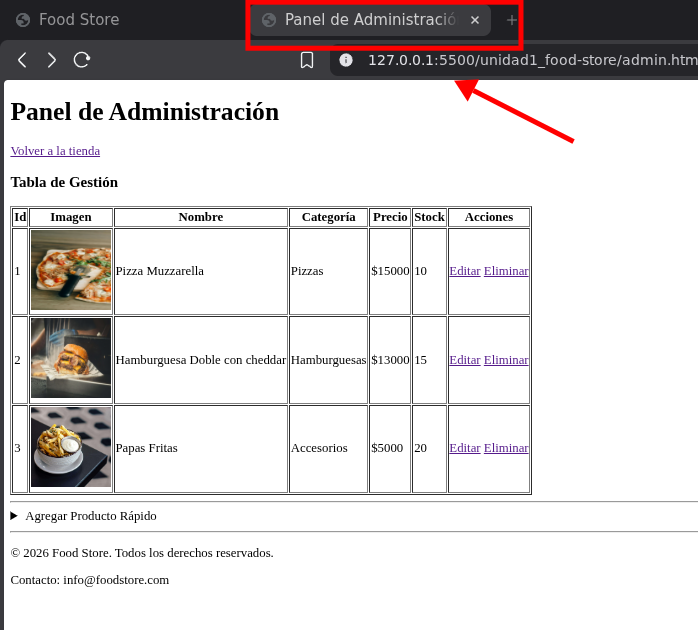
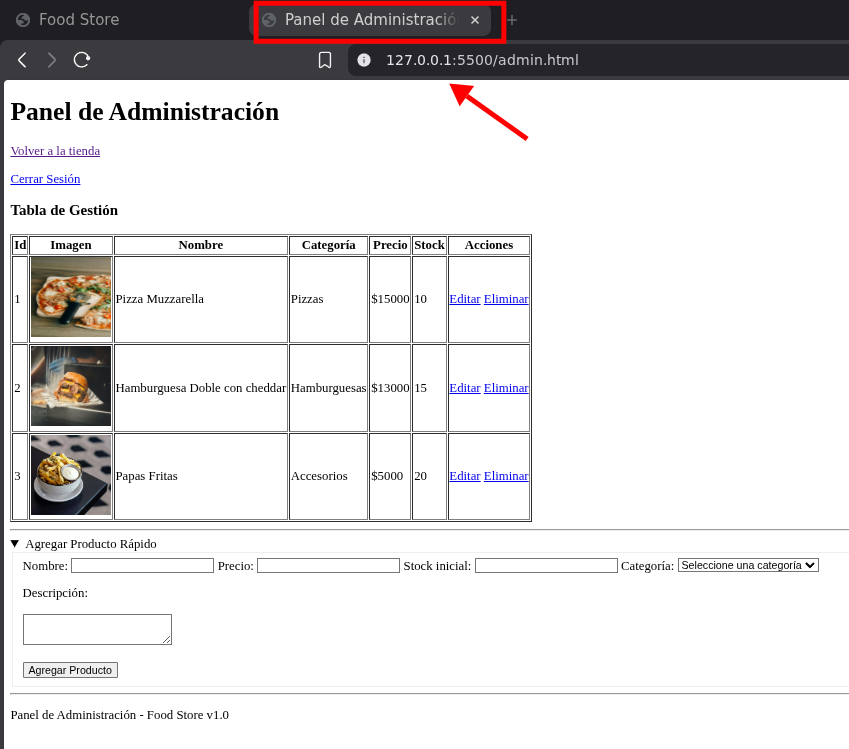
fix: corregir errores de sintaxis en HTML y cambio de lang a es.

Changed region(s): [[0.0, 0.0, 1.0, 0.9651], [0.7521, 0.181, 0.8424, 0.2413]]

diff --git a/unidad1_food-store/index.html b/unidad1_food-store/index.html
@@ -1,5 +1,5 @@
 <!DOCTYPE html>
-<html lang="en">
+<html lang="es">
 <head>
     <meta charset="UTF-8">
     <meta name="viewport" content="width=device-width, initial-scale=1.0">
@@ -10,30 +10,31 @@
         <h1>Food Store</h1>
         <nav>
             <ul>
-                <li><a href="index.html">Inicio</a></li>
-                <li><a href="orders.html">Mis Pedidos</a></li>
-                <li><a href="cart.html">Carrito</a></li>
+                <li><a href="#">Inicio</a></li>
+                <li><a href="#">Mis Pedidos</a></li>
+                <li><a href="#">Carrito</a></li>
                 <li><a href="admin.html">Panel Admin</a></li>
             </ul>
         </nav>
     </header>
     <hr>
-    <h2>Categorías</h2>
     <aside>
+        <h2>Categorías</h2>
         <ul>
-            <li><a href="burgers.html">Hamburguesas</a></li>
-            <li><a href="pizzas.html">Pizzas</a></li>
-            <li><a href="drinks.html">Bebidas</a></li>
+            <li><a href="#">Hamburguesas</a></li>
+            <li><a href="#">Pizzas</a></li>
+            <li><a href="#">Bebidas</a></li>
         </ul>
     </aside>
     <hr>
     <main>
         <form action="" method="get">
             <label for="search">Buscar productos:</label>
-            <input type="text" id="search" name="search" placeholder="Ej: Pizza" aria-label="Campo de búsqueda de productos">
+            <input type="text" id="search" name="search" placeholder="Ej: Hamburguesa" aria-label="Campo de búsqueda de productos">
             <button type="submit" aria-label="Buscar productos">Buscar</button>
         </form>
         <section>
+            <h2>Productos Destacados</h2>
             <article>
                 <img src="assets/img/pizza.jpg" alt="Pizza Muzzarella" width="200" height="200">
                 <h3>Pizza Muzzarella</h3>
@@ -41,7 +42,6 @@
                 <p><strong aria-label="Precio">$15000</strong></p>
                 <button type="button" aria-label="Agregar Pizza Muzzarella al carrito">Agregar</button>
             </article>
-            <br height="10">
             <article>
                 <img src="assets/img/burger.jpg" alt="Hamburguesa Doble con cheddar" width="200" height="200">
                 <h3>Hamburguesa Doble con cheddar</h3>

diff --git a/unidad1_food-store/admin.html b/unidad1_food-store/admin.html
@@ -1,5 +1,5 @@
 <!DOCTYPE html>
-<html lang="en">
+<html lang="es">
 <head>
     <meta charset="UTF-8">
     <meta name="viewport" content="width=device-width, initial-scale=1.0">
@@ -9,6 +9,7 @@
     <header>
         <h1>Panel de Administración</h1>
         <p><a href="index.html">Volver a la tienda</a></p>
+		<p><a href="#">Cerrar Sesión</a></p>
     </header>
     <main>
         <h3>Tabla de Gestión</h3>
@@ -33,8 +34,8 @@
 			<td>$15000</td>
 			<td>10</td>
 			<td>
-				<a href="">Editar</a>
-				<a href="">Eliminar</a>
+				<a href="#">Editar</a>
+				<a href="#">Eliminar</a>
 			</td>
 		</tr>
 		<tr>
@@ -45,8 +46,8 @@
 			<td>$13000</td>
 			<td>15</td>
 			<td>
-				<a href="">Editar</a>
-				<a href="">Eliminar</a>
+				<a href="#">Editar</a>
+				<a href="#">Eliminar</a>
 			</td>
 		</tr>
         <tr>
@@ -57,8 +58,8 @@
 			<td>$5000</td>
 			<td>20</td>
 			<td>
-				<a href="">Editar</a>
-				<a href="">Eliminar</a>
+				<a href="#">Editar</a>
+				<a href="#">Eliminar</a>
 			</td>
 		</tr>
 	</tbody>
@@ -67,10 +68,13 @@
 <details>
     <summary>Agregar Producto Rápido</summary>
     <form>
+		<fieldset>
         <label for="name">Nombre:</label>
         <input type="text" id="name" name="name" required>
         <label for="price">Precio:</label>
         <input type="number" id="price" name="price" required>
+		<label for="stock">Stock inicial:</label>
+        <input type="number" id="stock" name="stock" required>
         <label for="category">Categoría:</label>
         <select id="category" name="category" required>
             <option value="">Seleccione una categoría</option>
@@ -78,15 +82,17 @@
             <option value="Hamburguesas">Hamburguesas</option>
             <option value="Accesorios">Accesorios</option>
         </select>
+		<p><label for="description">Descripción:</label></p>
+        <p><textarea id="description" name="description"></textarea></p>
         <button type="submit">Agregar Producto</button>
+		</fieldset>
     </form>
 </details>
 
     </main>
     <hr>
     <footer>
-        <p>&copy; 2026 Food Store. Todos los derechos reservados.</p>
-        <p>Contacto: info@foodstore.com</p>
+        <p>Panel de Administración - Food Store v1.0</p>
     </footer>
 </body>
 </html>
